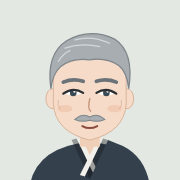
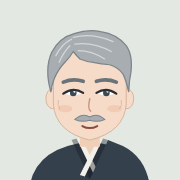
髪を七三の分け目に、「おる」をやめ「いる」に
Claude-Session: https://claude.ai/code/session_01Pxkwr2Xbz9XP17puQDKEyr

Changed region(s): [[0.25, 0.1667, 0.75, 0.5278], [0.6111, 0.2778, 0.6389, 0.3056]]

diff --git a/docs/index.html b/docs/index.html
@@ -114,8 +114,8 @@ function faceSVG(name) {
 <ellipse cx="55" cy="118" rx="8" ry="12" fill="#F6DCC8" stroke="#D9B39A" stroke-width="1.2"></ellipse>
 <ellipse cx="145" cy="118" rx="8" ry="12" fill="#F6DCC8" stroke="#D9B39A" stroke-width="1.2"></ellipse>
 <path d="M56 95 Q56 60 100 58 Q144 60 144 95 L144 124 Q142 158 100 168 Q58 158 56 124 Z" fill="#F6DCC8" stroke="#D9B39A" stroke-width="1.2"></path>
-<path d="M53 106 Q47 64 72 48 Q100 32 130 46 Q154 62 147 106 Q145 86 135 78 Q120 68 100 71 Q79 68 65 79 Q55 88 53 106 Z" fill="${HAIR}" stroke="#7D858A" stroke-width="1.5"></path>
-<path d="M70 57 Q90 50 112 55 M82 47 Q102 41 124 51 M62 73 Q67 64 76 60" fill="none" stroke="#D3D7D9" stroke-width="1.5" stroke-linecap="round"></path>
+<path d="M53 110 Q45 82 54 62 Q63 44 82 39 Q98 34 113 37 Q133 40 144 54 Q154 68 148 96 L147 110 Q144 96 140 88 Q134 80 124 77 Q114 76 104 74 Q95 73 88 70 Q84 66 80 61 Q76 68 70 74 Q62 82 57 94 Q54 102 53 110 Z" fill="${HAIR}" stroke="#7D858A" stroke-width="1.5"></path>
+<path d="M80 44 Q102 38 128 49 M82 52 Q104 49 126 61 M86 60 Q102 60 118 70 M78 46 Q66 52 59 66 M76 54 Q68 62 63 74" fill="none" stroke="#D3D7D9" stroke-width="1.5" stroke-linecap="round"></path>
 <path d="M62 120 Q60 126 64 130 M138 120 Q140 126 136 130" fill="none" stroke="#DDBBA4" stroke-width="1.2" stroke-linecap="round"></path>
 <ellipse cx="70" cy="130" rx="9" ry="4.5" fill="#E9967A" opacity="${f.blush}"></ellipse>
 <ellipse cx="130" cy="130" rx="9" ry="4.5" fill="#E9967A" opacity="${f.blush}"></ellipse>
